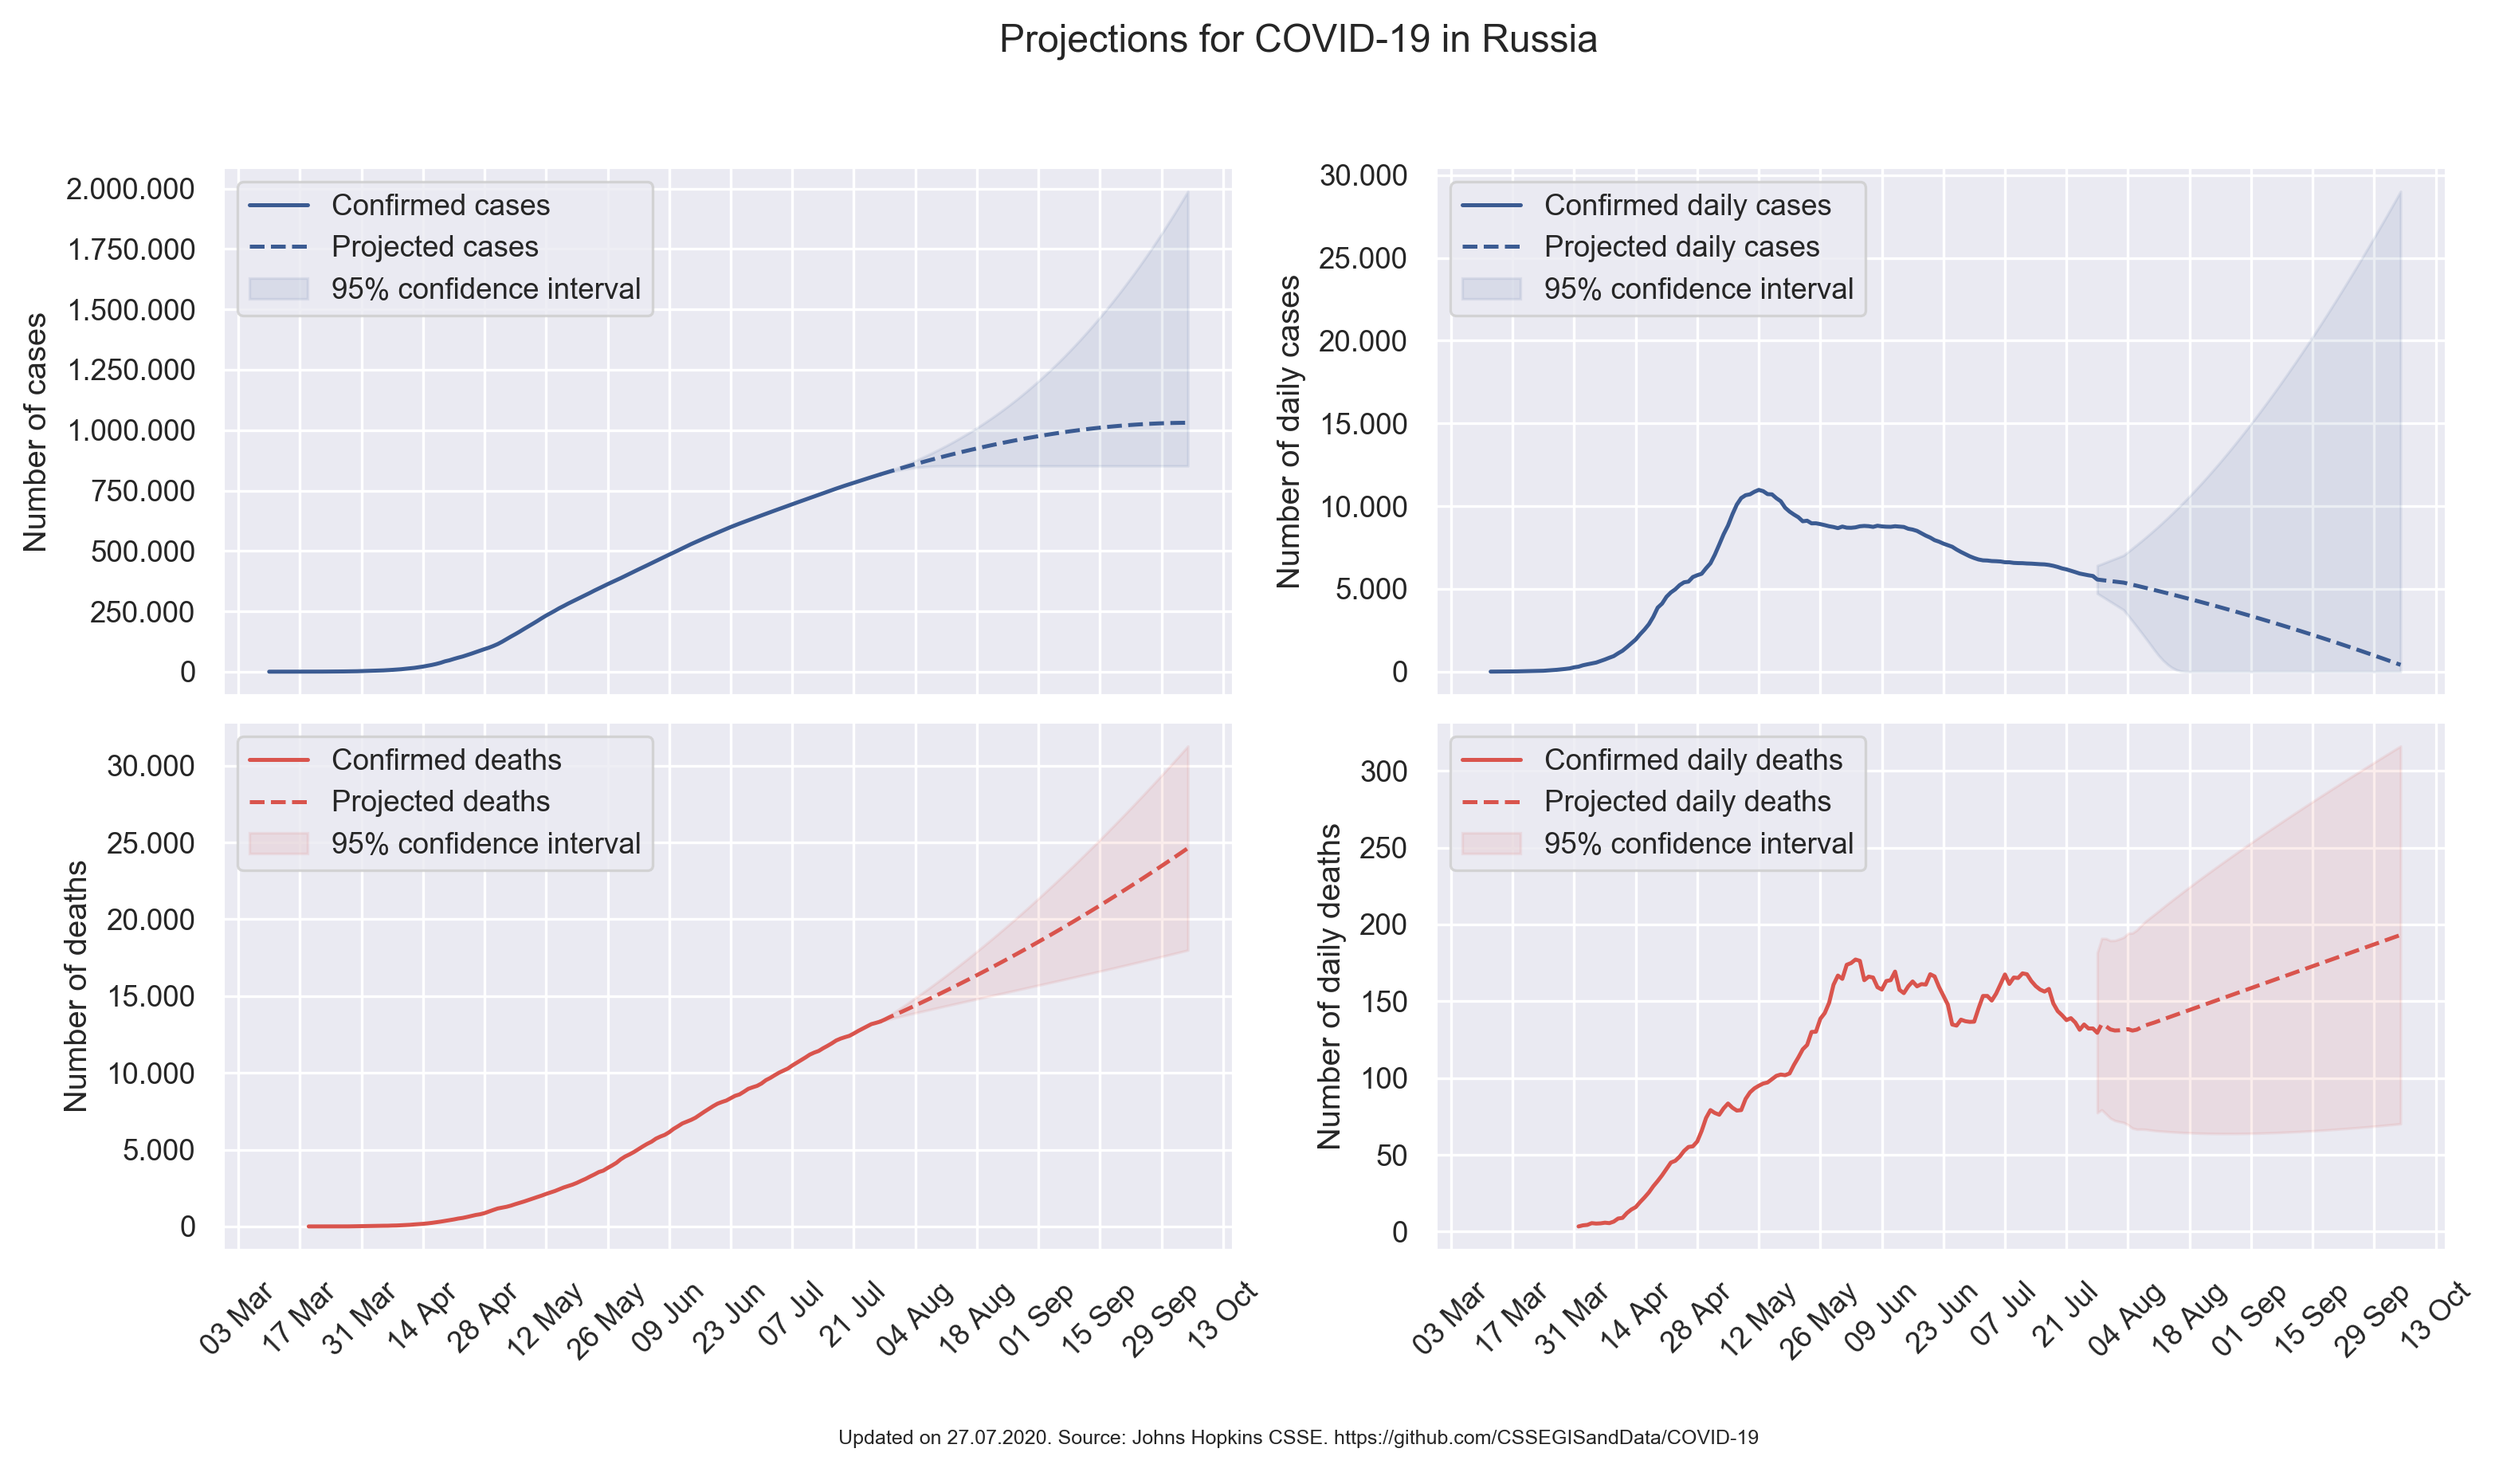
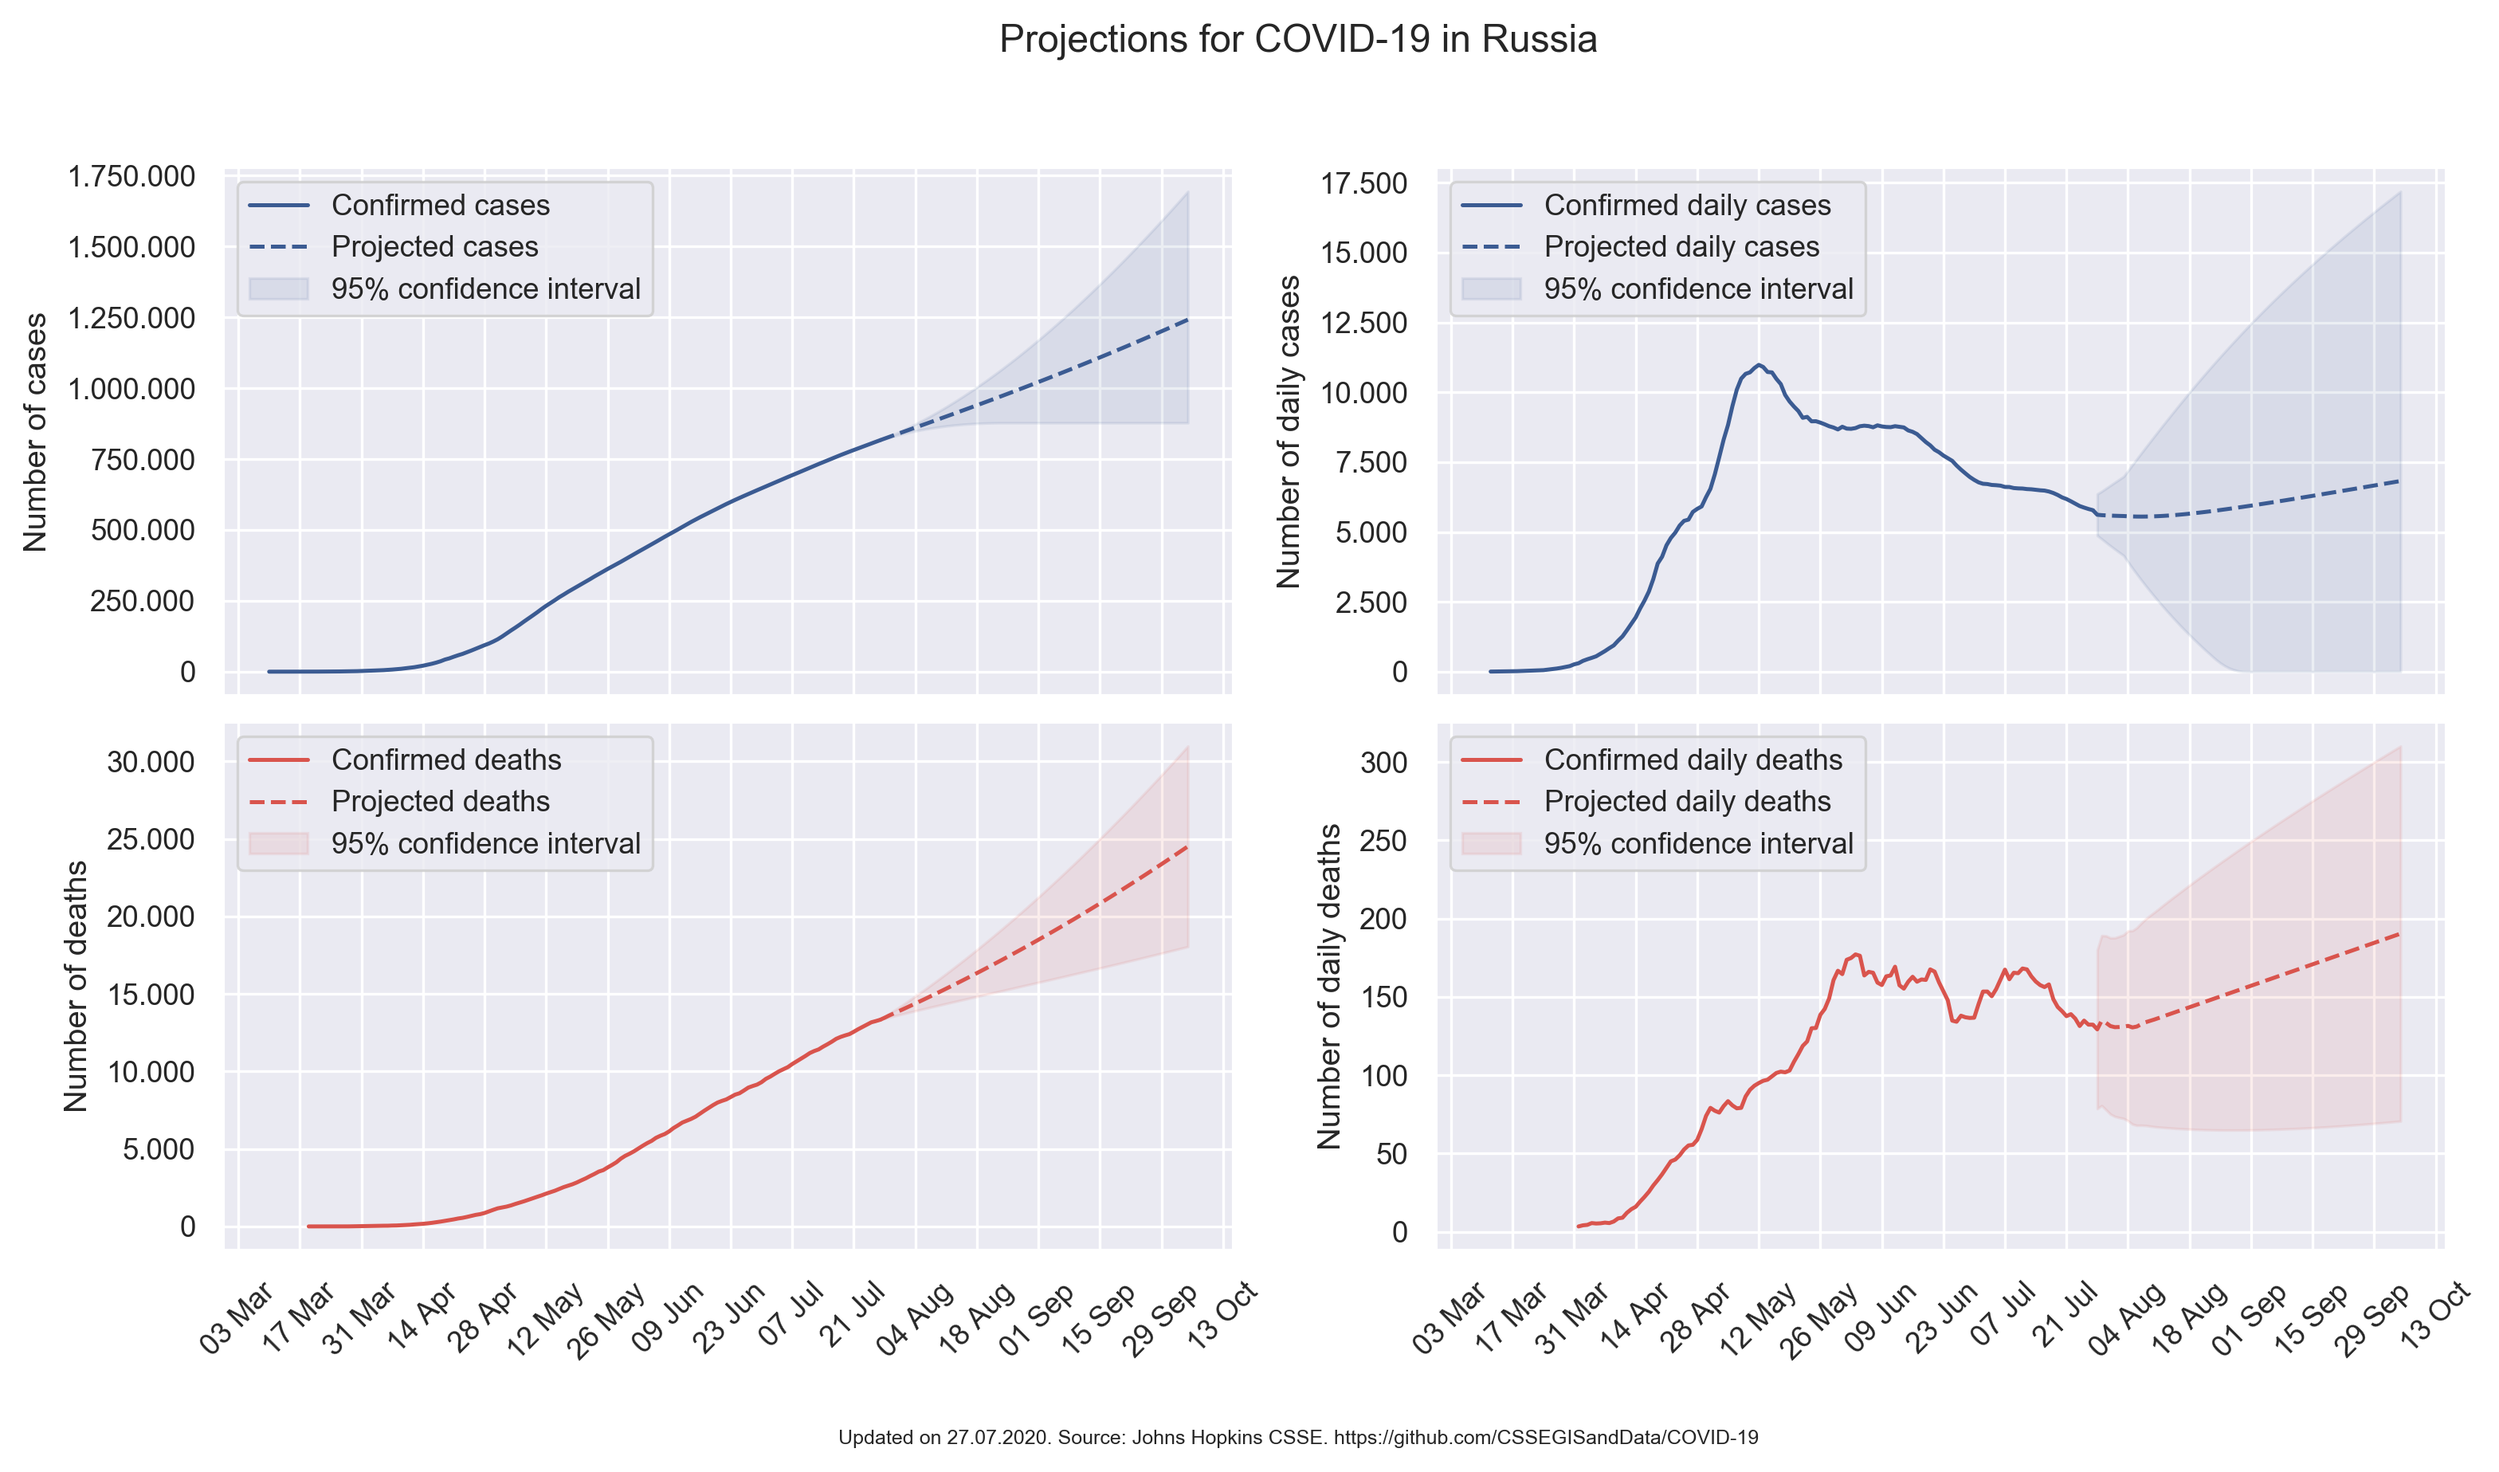
fixed training dataframe

diff --git a/corona.py b/corona.py
@@ -118,6 +118,7 @@ for country in countries:
     y=confirmed_comp[country].dropna().values
     train=np.maximum(0,confirmed_daily[country].astype(float))
     train=train[train>0]
+    train=np.maximum(0,confirmed_daily[country].astype(float))[train.index[0]:]
     #Find optimal ARIMA model
     models_c[country] = pm.auto_arima(train, seasonal=False, trace=True)
     #2 weeks predictions
@@ -166,6 +167,7 @@ for country in countries:
     y=deaths_comp[country].dropna().values
     train=np.maximum(0,deaths_daily[country].astype(float))
     train=train[train>0]
+    train=np.maximum(0,deaths_daily[country].astype(float))[train.index[0]:]
     #Find optimal ARIMA model
     models_d[country] = pm.auto_arima(train, seasonal=False, trace=True)
     #2 weeks predictions
